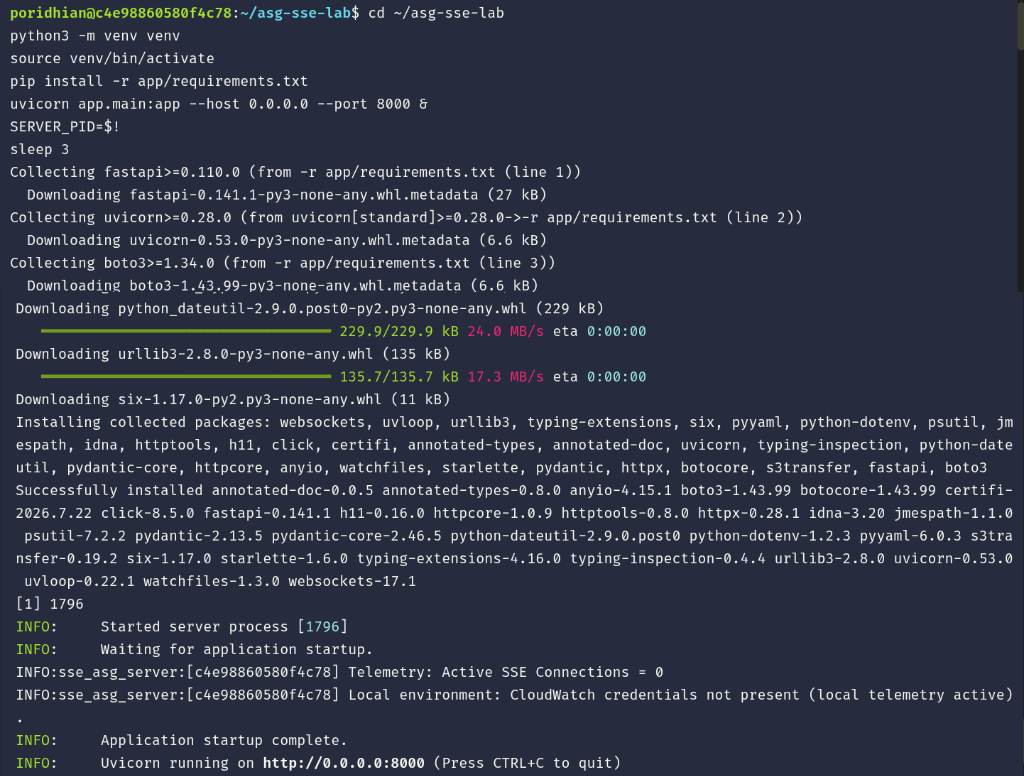
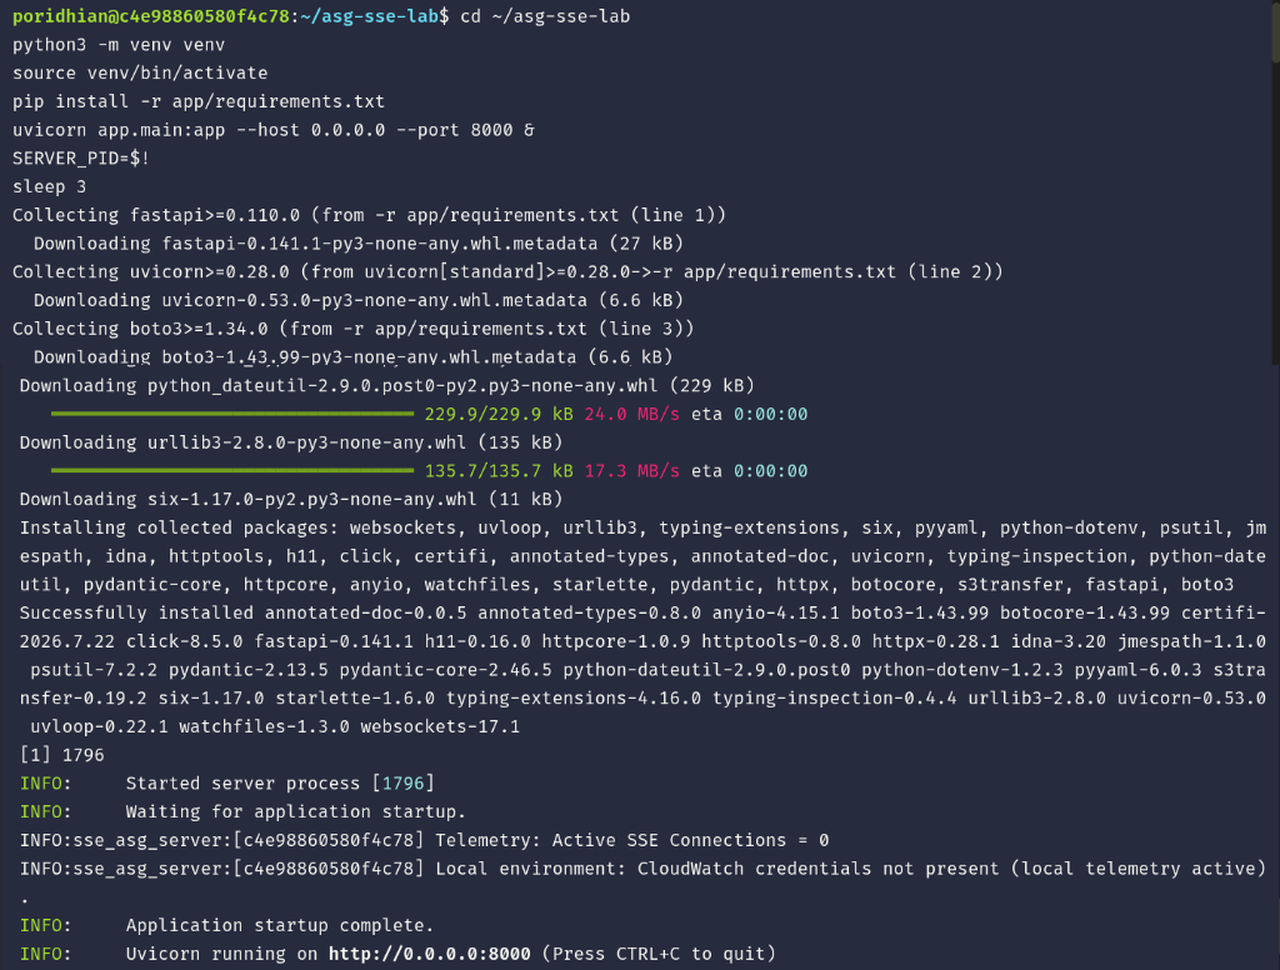
docs: enlarge images and increase rendered widths for high legibility in Lab 58

diff --git a/Scalable Server-Sent Events (SSE) Architecture (Modules 80–82)/Module 81: Auto Scaling and Load Testing for SSE/Lab 58: Auto Scaling Setup for SSE Servers/readme.md b/Scalable Server-Sent Events (SSE) Architecture (Modules 80–82)/Module 81: Auto Scaling and Load Testing for SSE/Lab 58: Auto Scaling Setup for SSE Servers/readme.md
@@ -79,7 +79,7 @@ cd ~/asg-sse-lab
 ```
 
 <p align="center">
-  <img src="https://raw.githubusercontent.com/iftakhar-323/lab-assets/main/lab58/01_create_directory.png" alt="Create Lab Directory Structure" width="700">
+  <img src="https://raw.githubusercontent.com/iftakhar-323/lab-assets/main/lab58/01_create_directory.png" alt="Create Lab Directory Structure" width="850">
 </p>
 
 ---
@@ -99,7 +99,7 @@ EOF
 ```
 
 <p align="center">
-  <img src="https://raw.githubusercontent.com/iftakhar-323/lab-assets/main/lab58/02_create_requirements.png" alt="Create Requirements File" width="700">
+  <img src="https://raw.githubusercontent.com/iftakhar-323/lab-assets/main/lab58/02_create_requirements.png" alt="Create Requirements File" width="850">
 </p>
 
 Create `app/main.py` with an embedded connection tracker and background CloudWatch reporter:
@@ -219,7 +219,7 @@ EOF
 ```
 
 <p align="center">
-  <img src="https://raw.githubusercontent.com/iftakhar-323/lab-assets/main/lab58/03_create_main_py.png" alt="Create FastAPI Main App" width="700">
+  <img src="https://raw.githubusercontent.com/iftakhar-323/lab-assets/main/lab58/03_create_main_py.png" alt="Create FastAPI Main App" width="850">
 </p>
 
 ---
@@ -297,7 +297,7 @@ EOF
 ```
 
 <p align="center">
-  <img src="https://raw.githubusercontent.com/iftakhar-323/lab-assets/main/lab58/04_create_user_data.png" alt="Create EC2 User Data Script" width="700">
+  <img src="https://raw.githubusercontent.com/iftakhar-323/lab-assets/main/lab58/04_create_user_data.png" alt="Create EC2 User Data Script" width="900">
 </p>
 
 ---
@@ -352,7 +352,7 @@ chmod +x aws/create_asg.sh
 ```
 
 <p align="center">
-  <img src="https://raw.githubusercontent.com/iftakhar-323/lab-assets/main/lab58/05_create_asg_script.png" alt="Create Launch Template and Auto Scaling Group" width="700">
+  <img src="https://raw.githubusercontent.com/iftakhar-323/lab-assets/main/lab58/05_create_asg_script.png" alt="Create Launch Template and Auto Scaling Group" width="900">
 </p>
 
 ---
@@ -392,7 +392,7 @@ chmod +x aws/configure_scaling_policy.sh
 ```
 
 <p align="center">
-  <img src="https://raw.githubusercontent.com/iftakhar-323/lab-assets/main/lab58/06_configure_scaling_policy.png" alt="Configure Target Tracking Scaling Policy" width="700">
+  <img src="https://raw.githubusercontent.com/iftakhar-323/lab-assets/main/lab58/06_configure_scaling_policy.png" alt="Configure Target Tracking Scaling Policy" width="900">
 </p>
 
 ---
@@ -416,7 +416,7 @@ sleep 3
 ```
 
 <p align="center">
-  <img src="https://raw.githubusercontent.com/iftakhar-323/lab-assets/main/lab58/07_start_fastapi_server.png" alt="Start FastAPI Server Locally" width="700">
+  <img src="https://raw.githubusercontent.com/iftakhar-323/lab-assets/main/lab58/07_start_fastapi_server.png" alt="Start FastAPI Server Locally" width="920">
 </p>
 
 ### 6.2 Create Scaling Metric Test Script
@@ -462,7 +462,7 @@ EOF
 ```
 
 <p align="center">
-  <img src="https://raw.githubusercontent.com/iftakhar-323/lab-assets/main/lab58/08_create_test_scaling_metric.png" alt="Create Test Scaling Metric Script" width="700">
+  <img src="https://raw.githubusercontent.com/iftakhar-323/lab-assets/main/lab58/08_create_test_scaling_metric.png" alt="Create Test Scaling Metric Script" width="850">
 </p>
 
 ### 6.3 Run Concurrent SSE Stream Test
@@ -490,13 +490,13 @@ Final Health Status: {'status': 'healthy', 'instance_id': '...', 'active_connect
 **1. 15 Concurrent Client Connections Initialized:**
 
 <p align="center">
-  <img src="https://raw.githubusercontent.com/iftakhar-323/lab-assets/main/lab58/09_run_concurrent_test_part1.png" alt="15 Concurrent Client Connections Initialized" width="700">
+  <img src="https://raw.githubusercontent.com/iftakhar-323/lab-assets/main/lab58/09_run_concurrent_test_part1.png" alt="15 Concurrent Client Connections Initialized" width="850">
 </p>
 
 **2. Client Streams Completed & Health Status Reset:**
 
 <p align="center">
-  <img src="https://raw.githubusercontent.com/iftakhar-323/lab-assets/main/lab58/10_run_concurrent_test_part2.png" alt="Client Streams Completed and Health Status Reset" width="700">
+  <img src="https://raw.githubusercontent.com/iftakhar-323/lab-assets/main/lab58/10_run_concurrent_test_part2.png" alt="Client Streams Completed and Health Status Reset" width="900">
 </p>
 
 ### 6.4 Verify Active Connection Telemetry Cleanup
@@ -504,7 +504,7 @@ Final Health Status: {'status': 'healthy', 'instance_id': '...', 'active_connect
 Observe the server terminal to confirm that the background telemetry publisher records active connections resetting to `0` following client disconnections:
 
 <p align="center">
-  <img src="https://raw.githubusercontent.com/iftakhar-323/lab-assets/main/lab58/11_verify_telemetry.png" alt="Verify Active Connection Telemetry Cleanup" width="700">
+  <img src="https://raw.githubusercontent.com/iftakhar-323/lab-assets/main/lab58/11_verify_telemetry.png" alt="Verify Active Connection Telemetry Cleanup" width="900">
 </p>
 
 ### 6.5 Terminate Background Server
